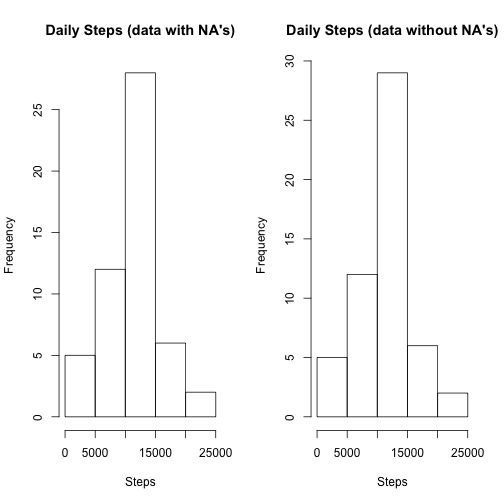
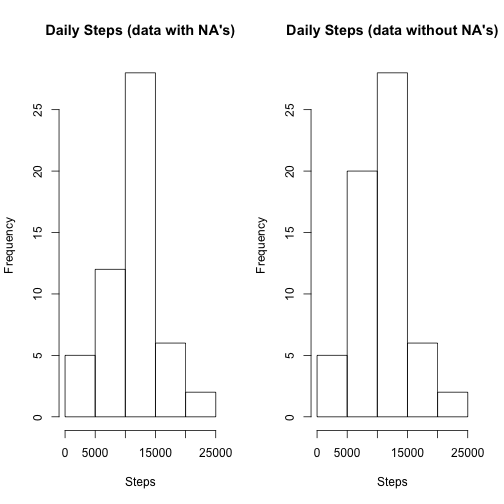
NA bug fixed, pending final panel plot

diff --git a/PA1_template.html b/PA1_template.html
@@ -323,30 +323,36 @@ head(meansNA)
 
 <pre><code class="r">newdata &lt;- data
 # substituting NA&#39;s for Means for the interval
-newdata[rowsNA,&quot;steps&quot;] &lt;- 
-  meansNA[which(newdata[rowsNA,&quot;interval&quot;]==meansNA[,&quot;interval&quot;]),&quot;steps&quot;]
-head(data)
+temp &lt;- data.frame(rowsNA,data[which(is.na(data$steps)),&quot;interval&quot;])
+names(temp) &lt;- c(&quot;rowsNA&quot;,&quot;interval&quot;)
+temp &lt;- merge(temp,meansNA,by=&quot;interval&quot;)
+newdata[rowsNA,&quot;steps&quot;] &lt;- temp[which(temp$rowsNA==rowsNA),&quot;steps&quot;]
+#head(data)
+#head(newdata)
+summary(data)
 </code></pre>
 
-<pre><code>##   steps       date interval
-## 1    NA 2012-10-01        0
-## 2    NA 2012-10-01        5
-## 3    NA 2012-10-01       10
-## 4    NA 2012-10-01       15
-## 5    NA 2012-10-01       20
-## 6    NA 2012-10-01       25
+<pre><code>##      steps               date          interval   
+##  Min.   :  0.0   2012-10-01:  288   Min.   :   0  
+##  1st Qu.:  0.0   2012-10-02:  288   1st Qu.: 589  
+##  Median :  0.0   2012-10-03:  288   Median :1178  
+##  Mean   : 37.4   2012-10-04:  288   Mean   :1178  
+##  3rd Qu.: 12.0   2012-10-05:  288   3rd Qu.:1766  
+##  Max.   :806.0   2012-10-06:  288   Max.   :2355  
+##  NA&#39;s   :2304    (Other)   :15840
 </code></pre>
 
-<pre><code class="r">head(newdata)
+<pre><code class="r">summary(newdata)
 </code></pre>
 
-<pre><code>##     steps       date interval
-## 1 1.71698 2012-10-01        0
-## 2 0.33962 2012-10-01        5
-## 3 0.13208 2012-10-01       10
-## 4 0.15094 2012-10-01       15
-## 5 0.07547 2012-10-01       20
-## 6 2.09434 2012-10-01       25
+<pre><code>##      steps               date          interval   
+##  Min.   :  0.0   2012-10-01:  288   Min.   :   0  
+##  1st Qu.:  0.0   2012-10-02:  288   1st Qu.: 589  
+##  Median :  0.0   2012-10-03:  288   Median :1178  
+##  Mean   : 35.6   2012-10-04:  288   Mean   :1178  
+##  3rd Qu.: 24.0   2012-10-05:  288   3rd Qu.:1766  
+##  Max.   :806.0   2012-10-06:  288   Max.   :2355  
+##                  (Other)   :15840
 </code></pre>
 
 <ul>
@@ -362,7 +368,7 @@ hist(tempOld$steps, main = &quot;Daily Steps (data with NA&#39;s)&quot;, xlab = 
 hist(tempNew$steps, main = &quot;Daily Steps (data without NA&#39;s)&quot;, xlab = &quot;Steps&quot;)
 </code></pre>
 
[2 lines of base64/hex data omitted]
 
 <pre><code class="r"># calculating Mean and Median for old and new datasets
 cat(&quot;Mean (NA=Yes):&quot;,mean(tempOld$steps),&quot;\n&quot;,&quot;Median (NA=Yes):&quot;,median(tempOld$steps),&quot;\n\n&quot;,
@@ -372,15 +378,40 @@ cat(&quot;Mean (NA=Yes):&quot;,mean(tempOld$steps),&quot;\n&quot;,&quot;Median (
 <pre><code>## Mean (NA=Yes): 10766 
 ##  Median (NA=Yes): 10765 
 ## 
-##  Mean (NA=No): 10766 
-##  Median (NA=No): 10766
+##  Mean (NA=No): 10255 
+##  Median (NA=No): 10395
 </code></pre>
 
 <h3>Are there differences in activity patterns between weekdays and weekends?</h3>
 
-<p>add content here
-1.
-2.</p>
+<ul>
+<li>Creating a new Weekday/Weekend factor variable</li>
+</ul>
+
+<pre><code class="r"># creating new variable
+newdata$ww &lt;- weekdays(as.Date(newdata$date))
+# changing factor levels to weekday/weekend
+newdata[which(
+        newdata$ww %in% c(&quot;Monday&quot;,&quot;Tuesday&quot;,&quot;Wednesday&quot;,&quot;Thursday&quot;,&quot;Friday&quot;)
+              ),&quot;ww&quot;] &lt;- &quot;weekday&quot;
+newdata[which(newdata$ww!=&quot;weekday&quot;),&quot;ww&quot;] &lt;- &quot;weekend&quot;
+newdata$ww &lt;- as.factor(newdata$ww)
+summary(newdata)
+</code></pre>
+
+<pre><code>##      steps               date          interval          ww       
+##  Min.   :  0.0   2012-10-01:  288   Min.   :   0   weekday:12960  
+##  1st Qu.:  0.0   2012-10-02:  288   1st Qu.: 589   weekend: 4608  
+##  Median :  0.0   2012-10-03:  288   Median :1178                  
+##  Mean   : 35.6   2012-10-04:  288   Mean   :1178                  
+##  3rd Qu.: 24.0   2012-10-05:  288   3rd Qu.:1766                  
+##  Max.   :806.0   2012-10-06:  288   Max.   :2355                  
+##                  (Other)   :15840
+</code></pre>
+
+<ul>
+<li>Creating a panel plot with average steps per interval averaged across weekday/weekend</li>
+</ul>
 
 </body>
 

diff --git a/PA1_template.md b/PA1_template.md
@@ -150,33 +150,39 @@ head(meansNA)
 ```r
 newdata <- data
 # substituting NA's for Means for the interval
-newdata[rowsNA,"steps"] <- 
-  meansNA[which(newdata[rowsNA,"interval"]==meansNA[,"interval"]),"steps"]
-head(data)
+temp <- data.frame(rowsNA,data[which(is.na(data$steps)),"interval"])
+names(temp) <- c("rowsNA","interval")
+temp <- merge(temp,meansNA,by="interval")
+newdata[rowsNA,"steps"] <- temp[which(temp$rowsNA==rowsNA),"steps"]
+#head(data)
+#head(newdata)
+summary(data)
 ```
 
 ```
-##   steps       date interval
-## 1    NA 2012-10-01        0
-## 2    NA 2012-10-01        5
-## 3    NA 2012-10-01       10
-## 4    NA 2012-10-01       15
-## 5    NA 2012-10-01       20
-## 6    NA 2012-10-01       25
+##      steps               date          interval   
+##  Min.   :  0.0   2012-10-01:  288   Min.   :   0  
+##  1st Qu.:  0.0   2012-10-02:  288   1st Qu.: 589  
+##  Median :  0.0   2012-10-03:  288   Median :1178  
+##  Mean   : 37.4   2012-10-04:  288   Mean   :1178  
+##  3rd Qu.: 12.0   2012-10-05:  288   3rd Qu.:1766  
+##  Max.   :806.0   2012-10-06:  288   Max.   :2355  
+##  NA's   :2304    (Other)   :15840
 ```
 
 ```r
-head(newdata)
+summary(newdata)
 ```
 
 ```
-##     steps       date interval
-## 1 1.71698 2012-10-01        0
-## 2 0.33962 2012-10-01        5
-## 3 0.13208 2012-10-01       10
-## 4 0.15094 2012-10-01       15
-## 5 0.07547 2012-10-01       20
-## 6 2.09434 2012-10-01       25
+##      steps               date          interval   
+##  Min.   :  0.0   2012-10-01:  288   Min.   :   0  
+##  1st Qu.:  0.0   2012-10-02:  288   1st Qu.: 589  
+##  Median :  0.0   2012-10-03:  288   Median :1178  
+##  Mean   : 35.6   2012-10-04:  288   Mean   :1178  
+##  3rd Qu.: 24.0   2012-10-05:  288   3rd Qu.:1766  
+##  Max.   :806.0   2012-10-06:  288   Max.   :2355  
+##                  (Other)   :15840
 ```
 
 * Make a histogram
@@ -204,12 +210,38 @@ cat("Mean (NA=Yes):",mean(tempOld$steps),"\n","Median (NA=Yes):",median(tempOld$
 ## Mean (NA=Yes): 10766 
 ##  Median (NA=Yes): 10765 
 ## 
-##  Mean (NA=No): 10766 
-##  Median (NA=No): 10766
+##  Mean (NA=No): 10255 
+##  Median (NA=No): 10395
 ```
 
 ### Are there differences in activity patterns between weekdays and weekends?
 
-add content here
-1.
-2.
+* Creating a new Weekday/Weekend factor variable
+
+
+```r
+# creating new variable
+newdata$ww <- weekdays(as.Date(newdata$date))
+# changing factor levels to weekday/weekend
+newdata[which(
+        newdata$ww %in% c("Monday","Tuesday","Wednesday","Thursday","Friday")
+              ),"ww"] <- "weekday"
+newdata[which(newdata$ww!="weekday"),"ww"] <- "weekend"
+newdata$ww <- as.factor(newdata$ww)
+summary(newdata)
+```
+
+```
+##      steps               date          interval          ww       
+##  Min.   :  0.0   2012-10-01:  288   Min.   :   0   weekday:12960  
+##  1st Qu.:  0.0   2012-10-02:  288   1st Qu.: 589   weekend: 4608  
+##  Median :  0.0   2012-10-03:  288   Median :1178                  
+##  Mean   : 35.6   2012-10-04:  288   Mean   :1178                  
+##  3rd Qu.: 24.0   2012-10-05:  288   3rd Qu.:1766                  
+##  Max.   :806.0   2012-10-06:  288   Max.   :2355                  
+##                  (Other)   :15840
+```
+
+* Creating a panel plot with average steps per interval averaged across weekday/weekend
+
+
